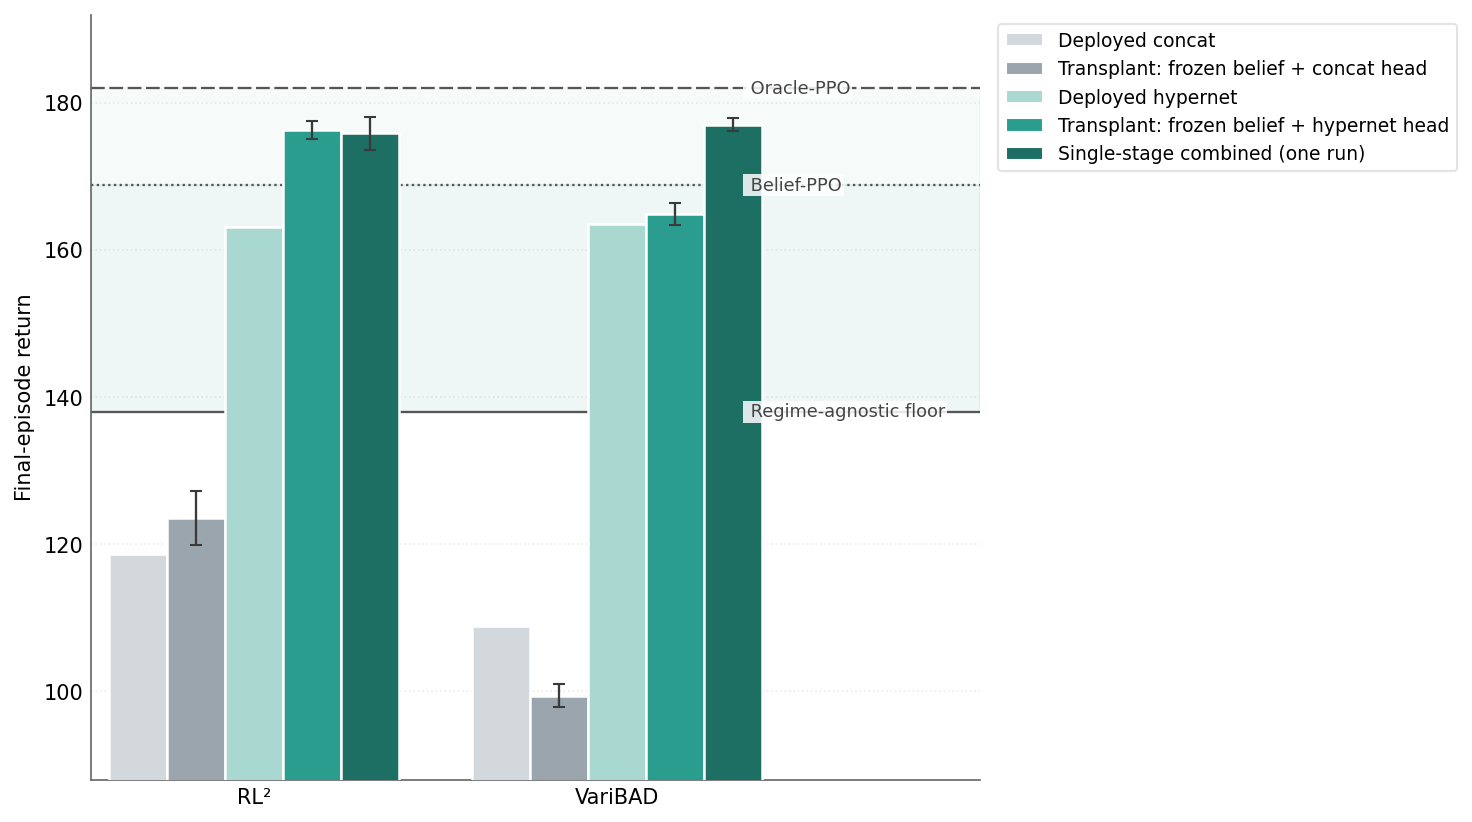
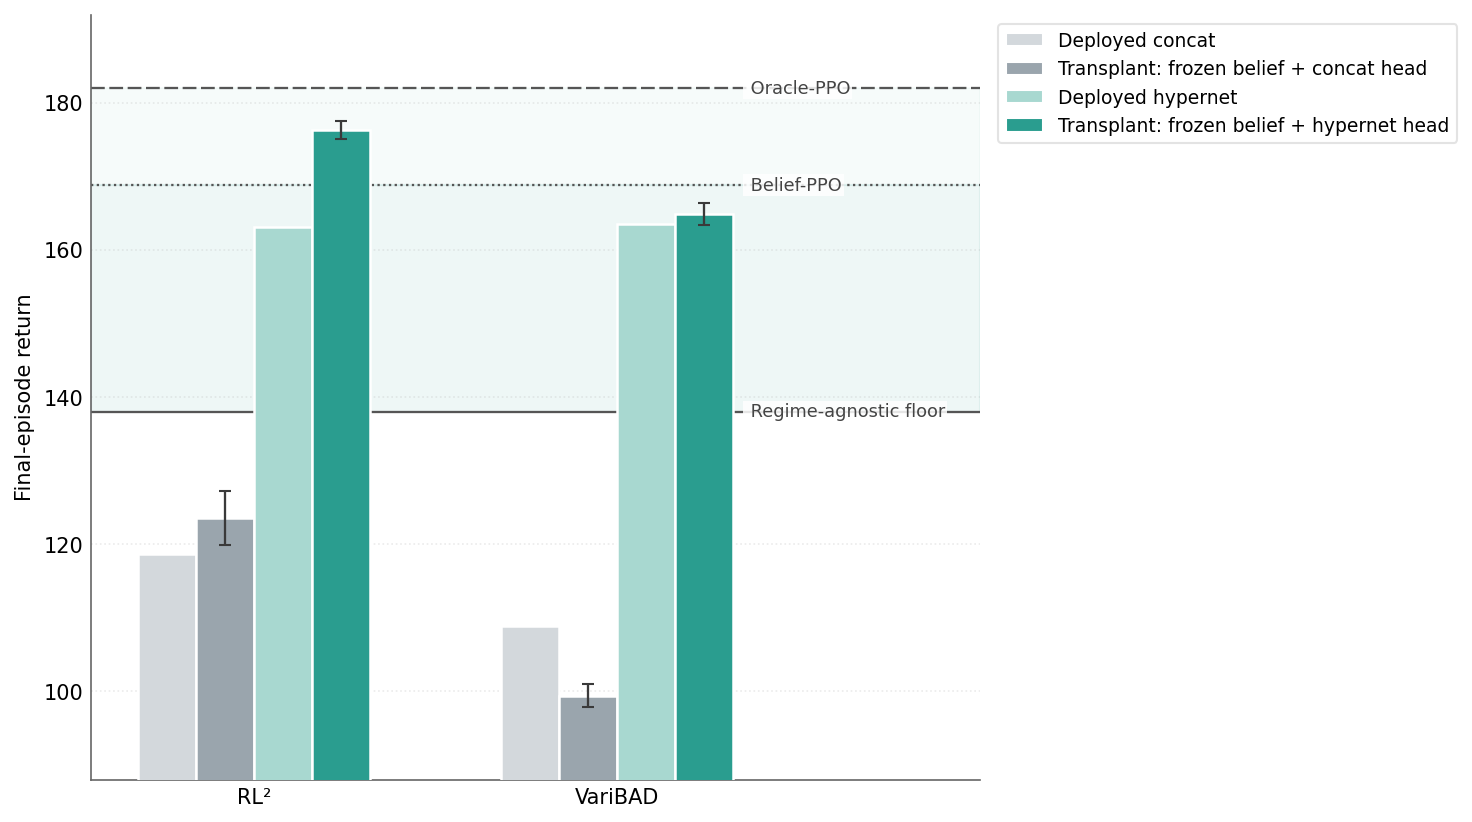
zeee

Changed region(s): [[0.0625, 0.1521, 0.2812, 0.9732], [0.3125, 0.1521, 0.5312, 0.9732], [0.6875, 0.1521, 0.9375, 0.2129]]

diff --git a/scripts/plot_transplant_figure.py b/scripts/plot_transplant_figure.py
@@ -38,15 +38,6 @@ def _load(prefix, head):
     return d["final_return_mean"], d["final_return_std"]
 
 
-def _load_single_stage(fname="m5r_single_stage_auxdecode_detach_n20.json"):
-    """Stop-gradient single-stage combined policy (one training run)."""
-    p = FINAL / fname
-    if not p.exists():
-        return None, None
-    d = json.load(open(p))["by_coef"]["1.0"]
-    return d["return_mean"], d["return_std"]
-
-
 def main() -> int:
     apply_style()
     fig, ax = plt.subplots(figsize=(11.0, 5.6))
@@ -54,7 +45,6 @@ def main() -> int:
 
     C_DEP_C, C_TR_C = "#d3d8dc", "#9aa5ad"          # concat: deployed / transplant
     C_DEP_H, C_TR_H = "#a8d8d0", PALETTE["hyper"]   # hypernet: deployed / transplant
-    C_SS = "#1d6e63"                                 # single-stage combined (one run)
 
     # Shaded zones: recoverable gap (floor -> belief) + inference remainder (belief -> oracle).
     ax.axhspan(FLOOR, BELIEF, color=PALETTE["hyper"], alpha=0.08, zorder=0)
@@ -76,20 +66,16 @@ def main() -> int:
     rl2_hm, rl2_hs = _load("m5r_transplant_e_final", "hypernet")
     vb_cm, vb_cs = _load("m5r_transplant_vb", "concat")
     vb_hm, vb_hs = _load("m5r_transplant_vb", "hypernet")
-    ss_m, ss_s = _load_single_stage()
-    vb_ss_m, vb_ss_s = _load_single_stage("m5r_single_stage_auxdecode_vb_detach_n20.json")
 
     centers = [0.0, 1.0]
-    # RL²: deployed concat, transplant concat, deployed hypernet, transplant hypernet, single-stage.
+    # RL²: deployed concat, transplant concat, deployed hypernet, transplant hypernet.
     _group(centers[0], [
         (DEPLOYED["rl2"][0], None, C_DEP_C), (rl2_cm, rl2_cs, C_TR_C),
         (DEPLOYED["rl2"][1], None, C_DEP_H), (rl2_hm, rl2_hs, C_TR_H),
-        (ss_m, ss_s, C_SS),
     ])
     _group(centers[1], [
         (DEPLOYED["vb"][0], None, C_DEP_C), (vb_cm, vb_cs, C_TR_C),
         (DEPLOYED["vb"][1], None, C_DEP_H), (vb_hm, vb_hs, C_TR_H),
-        (vb_ss_m, vb_ss_s, C_SS),
     ])
 
     xr = centers[-1] + 2.2 * bw
@@ -110,7 +96,6 @@ def main() -> int:
         Patch(facecolor=C_TR_C, edgecolor="white", label="Transplant: frozen belief + concat head"),
         Patch(facecolor=C_DEP_H, edgecolor="white", label="Deployed hypernet"),
         Patch(facecolor=C_TR_H, edgecolor="white", label="Transplant: frozen belief + hypernet head"),
-        Patch(facecolor=C_SS, edgecolor="white", label="Single-stage combined (one run)"),
     ]
     ax.legend(handles=handles,
               loc="upper left", bbox_to_anchor=(1.01, 1.0), fontsize=9, frameon=True,

diff --git a/CLAUDE.md b/CLAUDE.md
@@ -86,8 +86,8 @@ These are the non-negotiable rules. Full discussion in `docs/conventions.md`.
 - [x] M2 — regime-switching env, R1–R4 verified on E6e_symmetric_kappa05 (current E_final; E2/E3 also passed)
 - [x] M3 — reference levels on E6e (agnostic=136.2, belief=168.5, oracle=180.1; gap=43.9, compromise=32.3 / inference=11.6)
 - [x] M4 — implementation validation (RL² & VariBAD clear PPO floor on bandit/gridworld/regime_bandit at full budget; see `results/milestones/M4/method_ranking.json`)
-- [x] M5 — ladder + factorial on MM (answers RQ2). Stage A failed initial pass (2026-04-25); recovery via Steps 1-5. **Step-4 full-budget 4-cell factorial complete (n=8 × 200 iter, 2026-04-27)**: RL² hypernet **168.56** / VariBAD hypernet **166.80** (both at Belief-PPO ceiling 168.5, +30-32 above floor 136.2, gap_closed_vs_belief 0.95-1.00); RL² concat 124.07 / VariBAD concat 110.32 (both below floor). Both primary hypotheses (`hypernet_beats_concat`) supported with Holm-corrected p=0.0156, |Δ|≈45-55, robust to LOO. **Posterior probe**: all 4 cells decode regime at 0.79-0.81 vs analytical 0.88 — concat and hypernet have equivalent belief decodability, integration is the bottleneck (decoupling finding). `ranking_stable: false` (5/8 seeds — instability confined to the tied hypernet cells); decisive scientific claims robust. Tagged `m5-passed` 2026-04-27 with caveat note in tag message. See `STEP4_FINDINGS.md`.
-- [x] M6 — difficulty sweep + decoupling (answers RQ3). 7 methods × 3 levels × 2 axes = 42 cells. **Decoupling generalises** (Pearson r = +0.026, CI [−0.103, +0.155] across n=192 cell × seed points). Family A `hypernet > concat` **12/12 supported** with massive effects (Holm-corrected p=0.0469, |Δ| spans +24 to +89). Persistence-easy re-run 2026-04-29 at diag=0.99 (was 0.995) to give meta-RL methods an in-episode learning signal; fixed Belief-PPO monotonicity. Tagged `m6-passed` 2026-04-29 with caveat: `interpretable_overall=false` because the gap_closed normalisation dips on persistence easy/medium for hypernet methods — a metric artifact, not a method failure (absolute returns are monotonic non-increasing for every reference and hypernet). See FINDINGS.md.
+- [x] M5 — ladder + factorial on MM (answers RQ2). Stage A failed initial pass (2026-04-25); recovery via Steps 1-5. **Step-4 full-budget 4-cell factorial complete (n=8 × 200 iter, 2026-04-27)**: RL² hypernet **168.56** / VariBAD hypernet **166.80** (both at Belief-PPO ceiling 168.5, +30-32 above floor 136.2, gap_closed_vs_belief 0.95-1.00); RL² concat 124.07 / VariBAD concat 110.32 (both below floor). Both primary hypotheses (`hypernet_beats_concat`) supported with Holm-corrected p=0.0156, |Δ|≈45-55, robust to LOO. **Posterior probe**: all 4 cells decode regime at 0.79-0.81 vs analytical 0.88 — concat and hypernet have equivalent belief decodability, integration is the bottleneck (decoupling finding). `ranking_stable: false` (5/8 seeds — instability confined to the tied hypernet cells); decisive scientific claims robust. Tagged `m5-passed` 2026-04-27 with caveat note in tag message. See `STEP4_FINDINGS.md`. **Update 2026-06-22: medium-env factorial re-run at n=20 × 300 iter (`m5r_final_eval`, data in `results/M5R/final/per_cell_env.json`); these n=20 numbers are what the thesis reports and supersede the n=8 Step-4 figures above.** Refs: regime-agnostic floor 137.98, Belief-PPO 168.81, Oracle-PPO 182.01. RL² hypernet 163.1 (gap_closed_vs_belief 0.81), VariBAD hypernet 163.5 (0.83) — close to but **below** the belief ceiling, not at it; RL² concat 118.68, VariBAD concat 108.87 (both below the floor). hypernet > concat holds for both methods with large margins; the thesis reports the ordering as leave-one-out-robust at n=20 (Results, RQ2 section). Deployed-hypernet 163.1 is the same value the transplant figure climbs above.
+- [x] M6 — difficulty sweep + decoupling (answers RQ3). 7 methods × 3 levels × 2 axes = 42 cells. **Decoupling generalises** (Pearson r = +0.026, CI [−0.103, +0.155] across n=192 cell × seed points). Family A `hypernet > concat` **12/12 supported** with massive effects (Holm-corrected p=0.0469, |Δ| spans +24 to +89). Persistence-easy re-run 2026-04-29 at diag=0.99 (was 0.995) to give meta-RL methods an in-episode learning signal; fixed Belief-PPO monotonicity. Tagged `m6-passed` 2026-04-29 with caveat: `interpretable_overall=false` because the gap_closed normalisation dips on persistence easy/medium for hypernet methods — a metric artifact, not a method failure (absolute returns are monotonic non-increasing for every reference and hypernet). See FINDINGS.md. **Update 2026-06-23: in-domain sweep redesigned and re-run at n=20, superseding the n=8 two-axis sweep above for the thesis.** New sweep is the distinguishability axis only, easy `s=2.0` / medium `s=1.0` (= medium env) / hard `s=0.7`, plus one coupled fast-persistence point (`P_ii=0.85`, `s=2.0`), all at n=20 × 300 iter (`scripts/sweep_redesign_n20.py`; data in `results/M5R/final/m5r_posterior_vs_performance[_mlp]_sweep_{distinguishability_easy,distinguishability_hard,coupled_fast}.json`, medium level reuses the M5 factorial). Integration ordering holds at every level: hypernet variants reach the Belief-PPO ceiling, concat variants sit below the regime-agnostic floor. Per-level posterior-vs-performance correlation (logistic, overall): easy +0.15, hard +0.47, coupled +0.19; decoupling flagged at each level. At n=20 the n=8 LOO arithmetic ceiling (min one-sided Wilcoxon p = 1/256, Holm×12 = 0.0469, so any single-seed drop broke the corrected-p check) no longer binds. Thesis figure `figures/m5r_sweep_n20.png` and the Robustness-and-Generalisation results section use this n=20 data; the older `results/milestones/M6/` n=8 sweep is retained for history only.
 - [ ] M7 — supplementary ablations (optional)
 - [x] **Second-POMDP external-validity probe** (`CartPoleRegimeV1`, complete 2026-05-01). 7-method ladder × **2 difficulty axes × 3 levels each** (asymmetry: within-regime action-success contrast; persistence: HMM transition diagonal). Family A `hypernet > concat` **6/6 Holm-supported, 6/6 LOO-robust on each axis** (12/12 cells overall). Posterior-vs-performance correlation: pooled across asymmetry sweep r=+0.29/+0.15, across persistence sweep r=+0.49/+0.42 (logistic / MLP). **Inversion robust at every level on persistence (r=+0.30 to +0.68); robust at easy/medium on asymmetry (r=+0.47 to +0.64); attenuates only at asymmetry-hard where envelope collapses to +3.08.** Mechanistic finding: attenuation is driven by envelope size, not axis choice — both axes show the same pattern, asymmetry-hard just happens to compress the envelope further. Inversion is robust to (i) probe linearity, (ii) difficulty axis, (iii) difficulty level (where envelope ≥ ~6). See FINDINGS.md 2026-04-29 / -30 / -05-01 entries.
 
